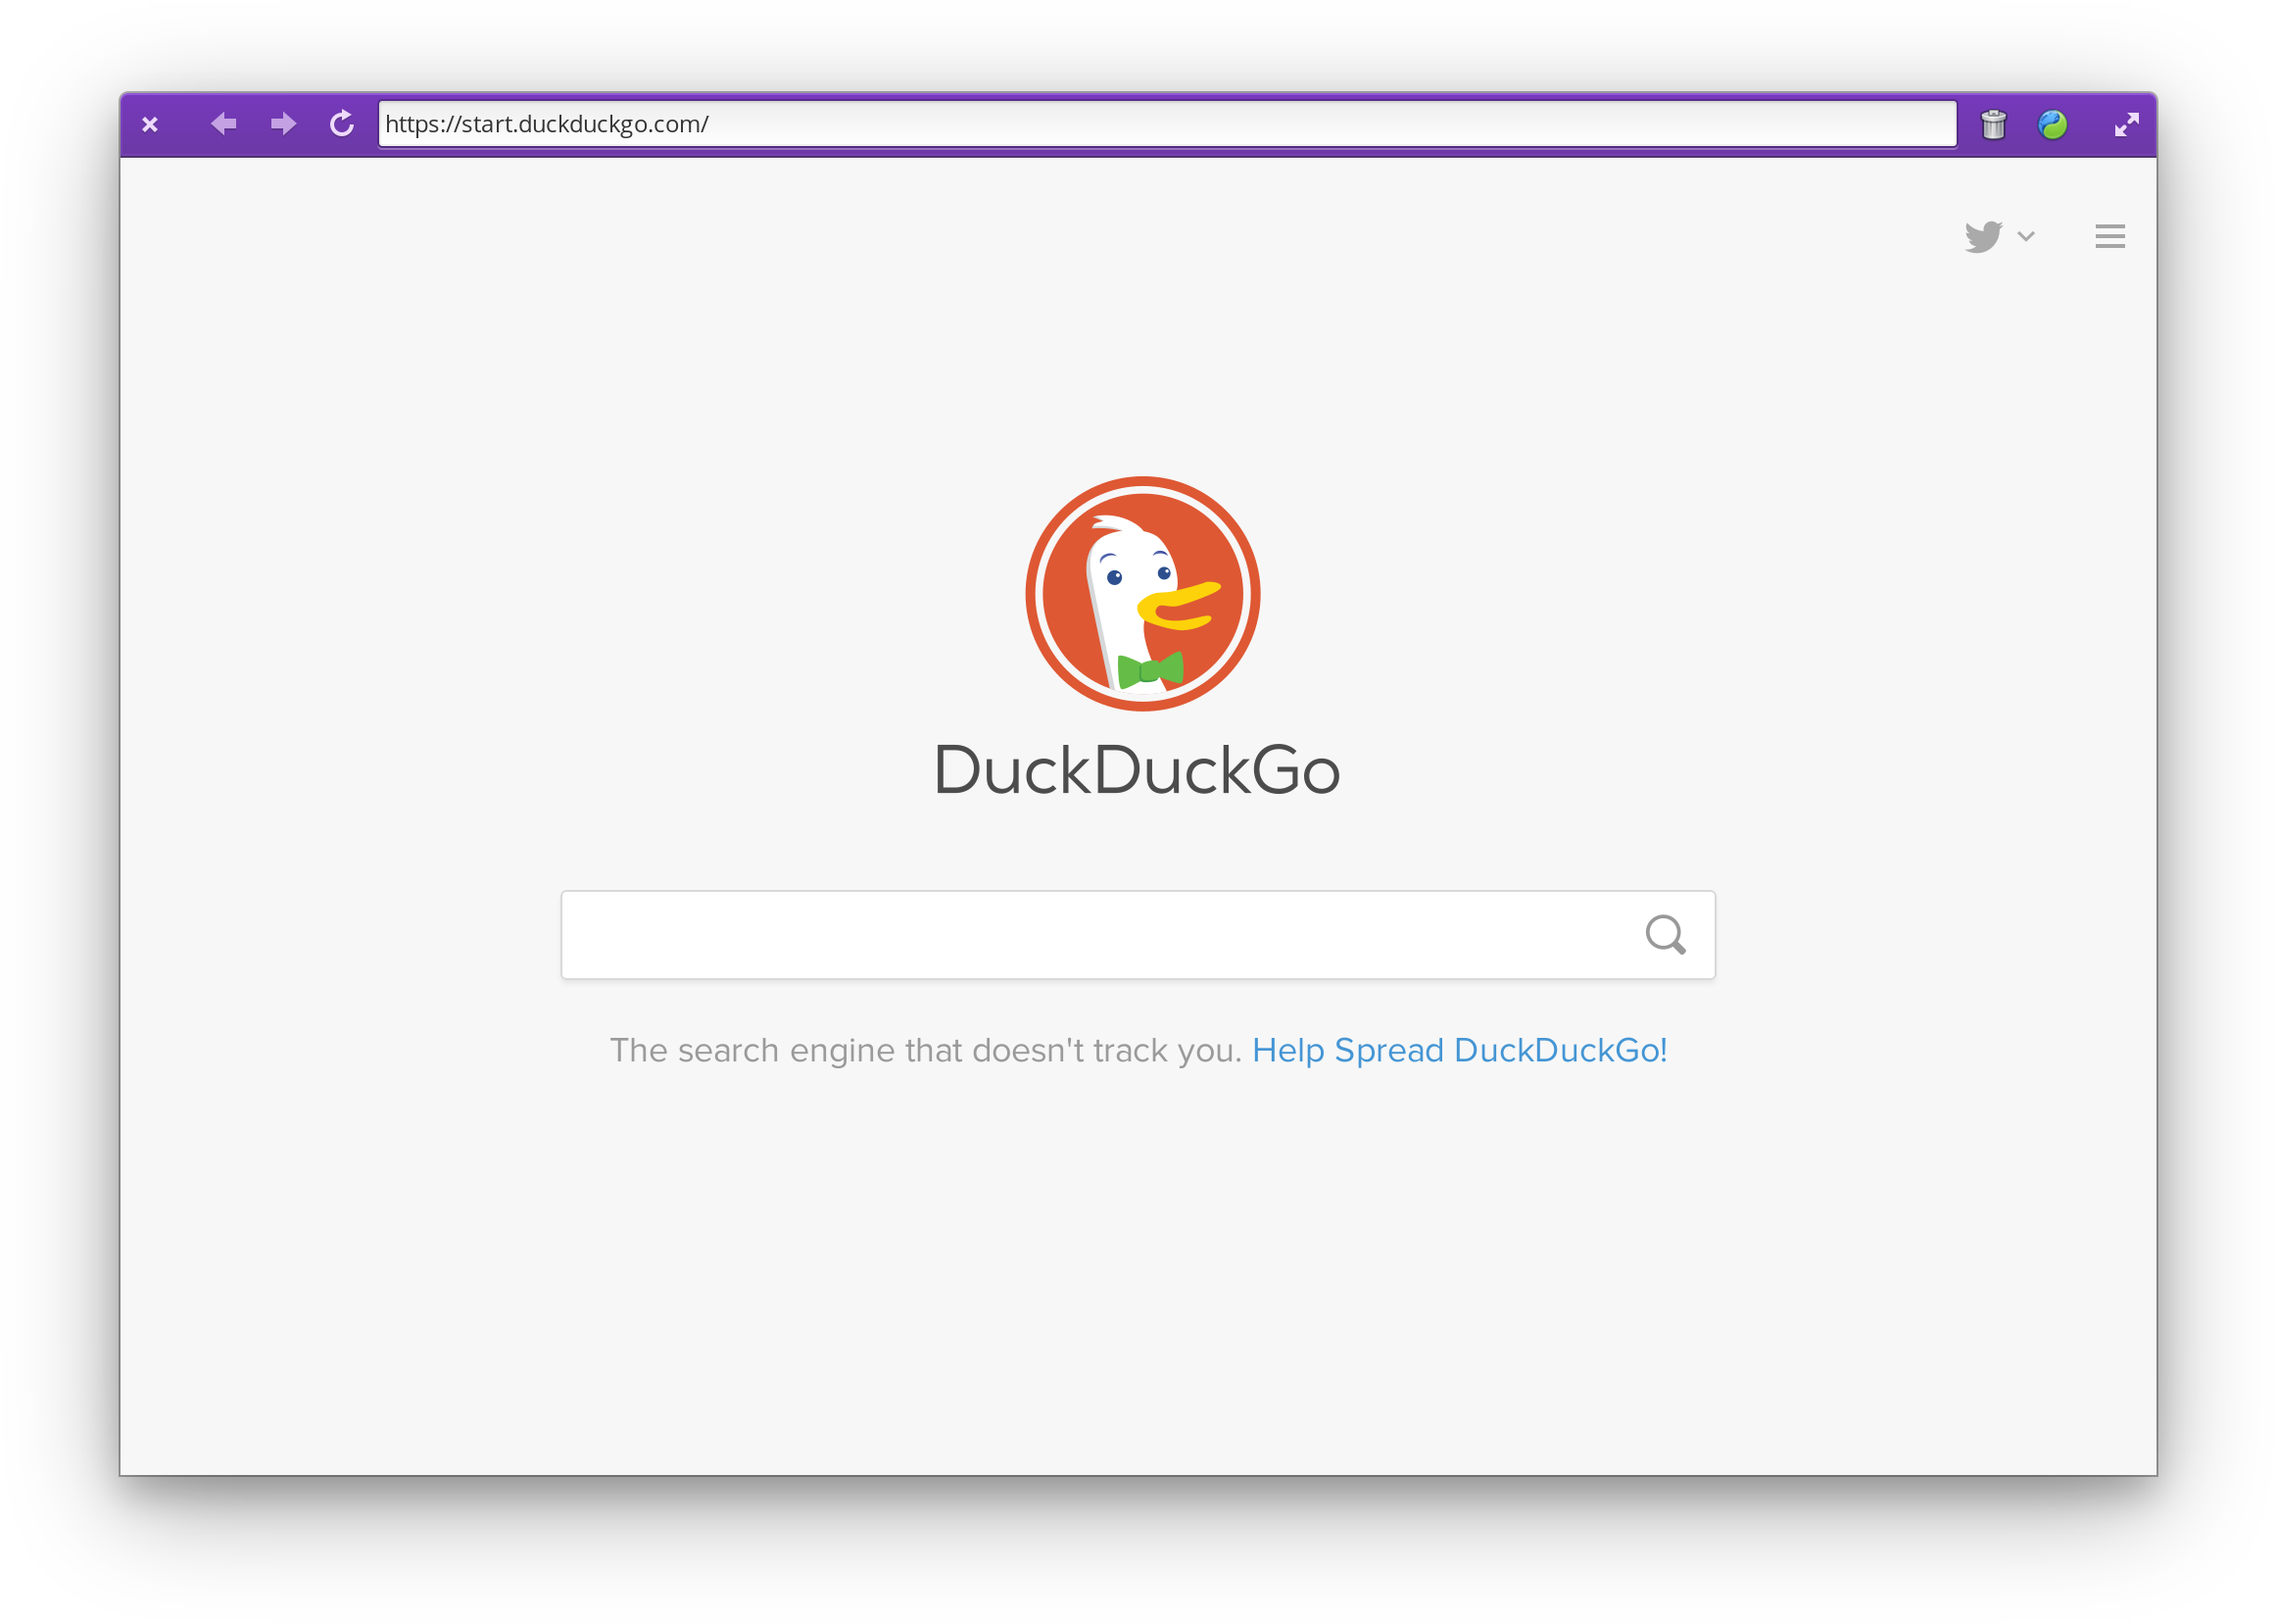
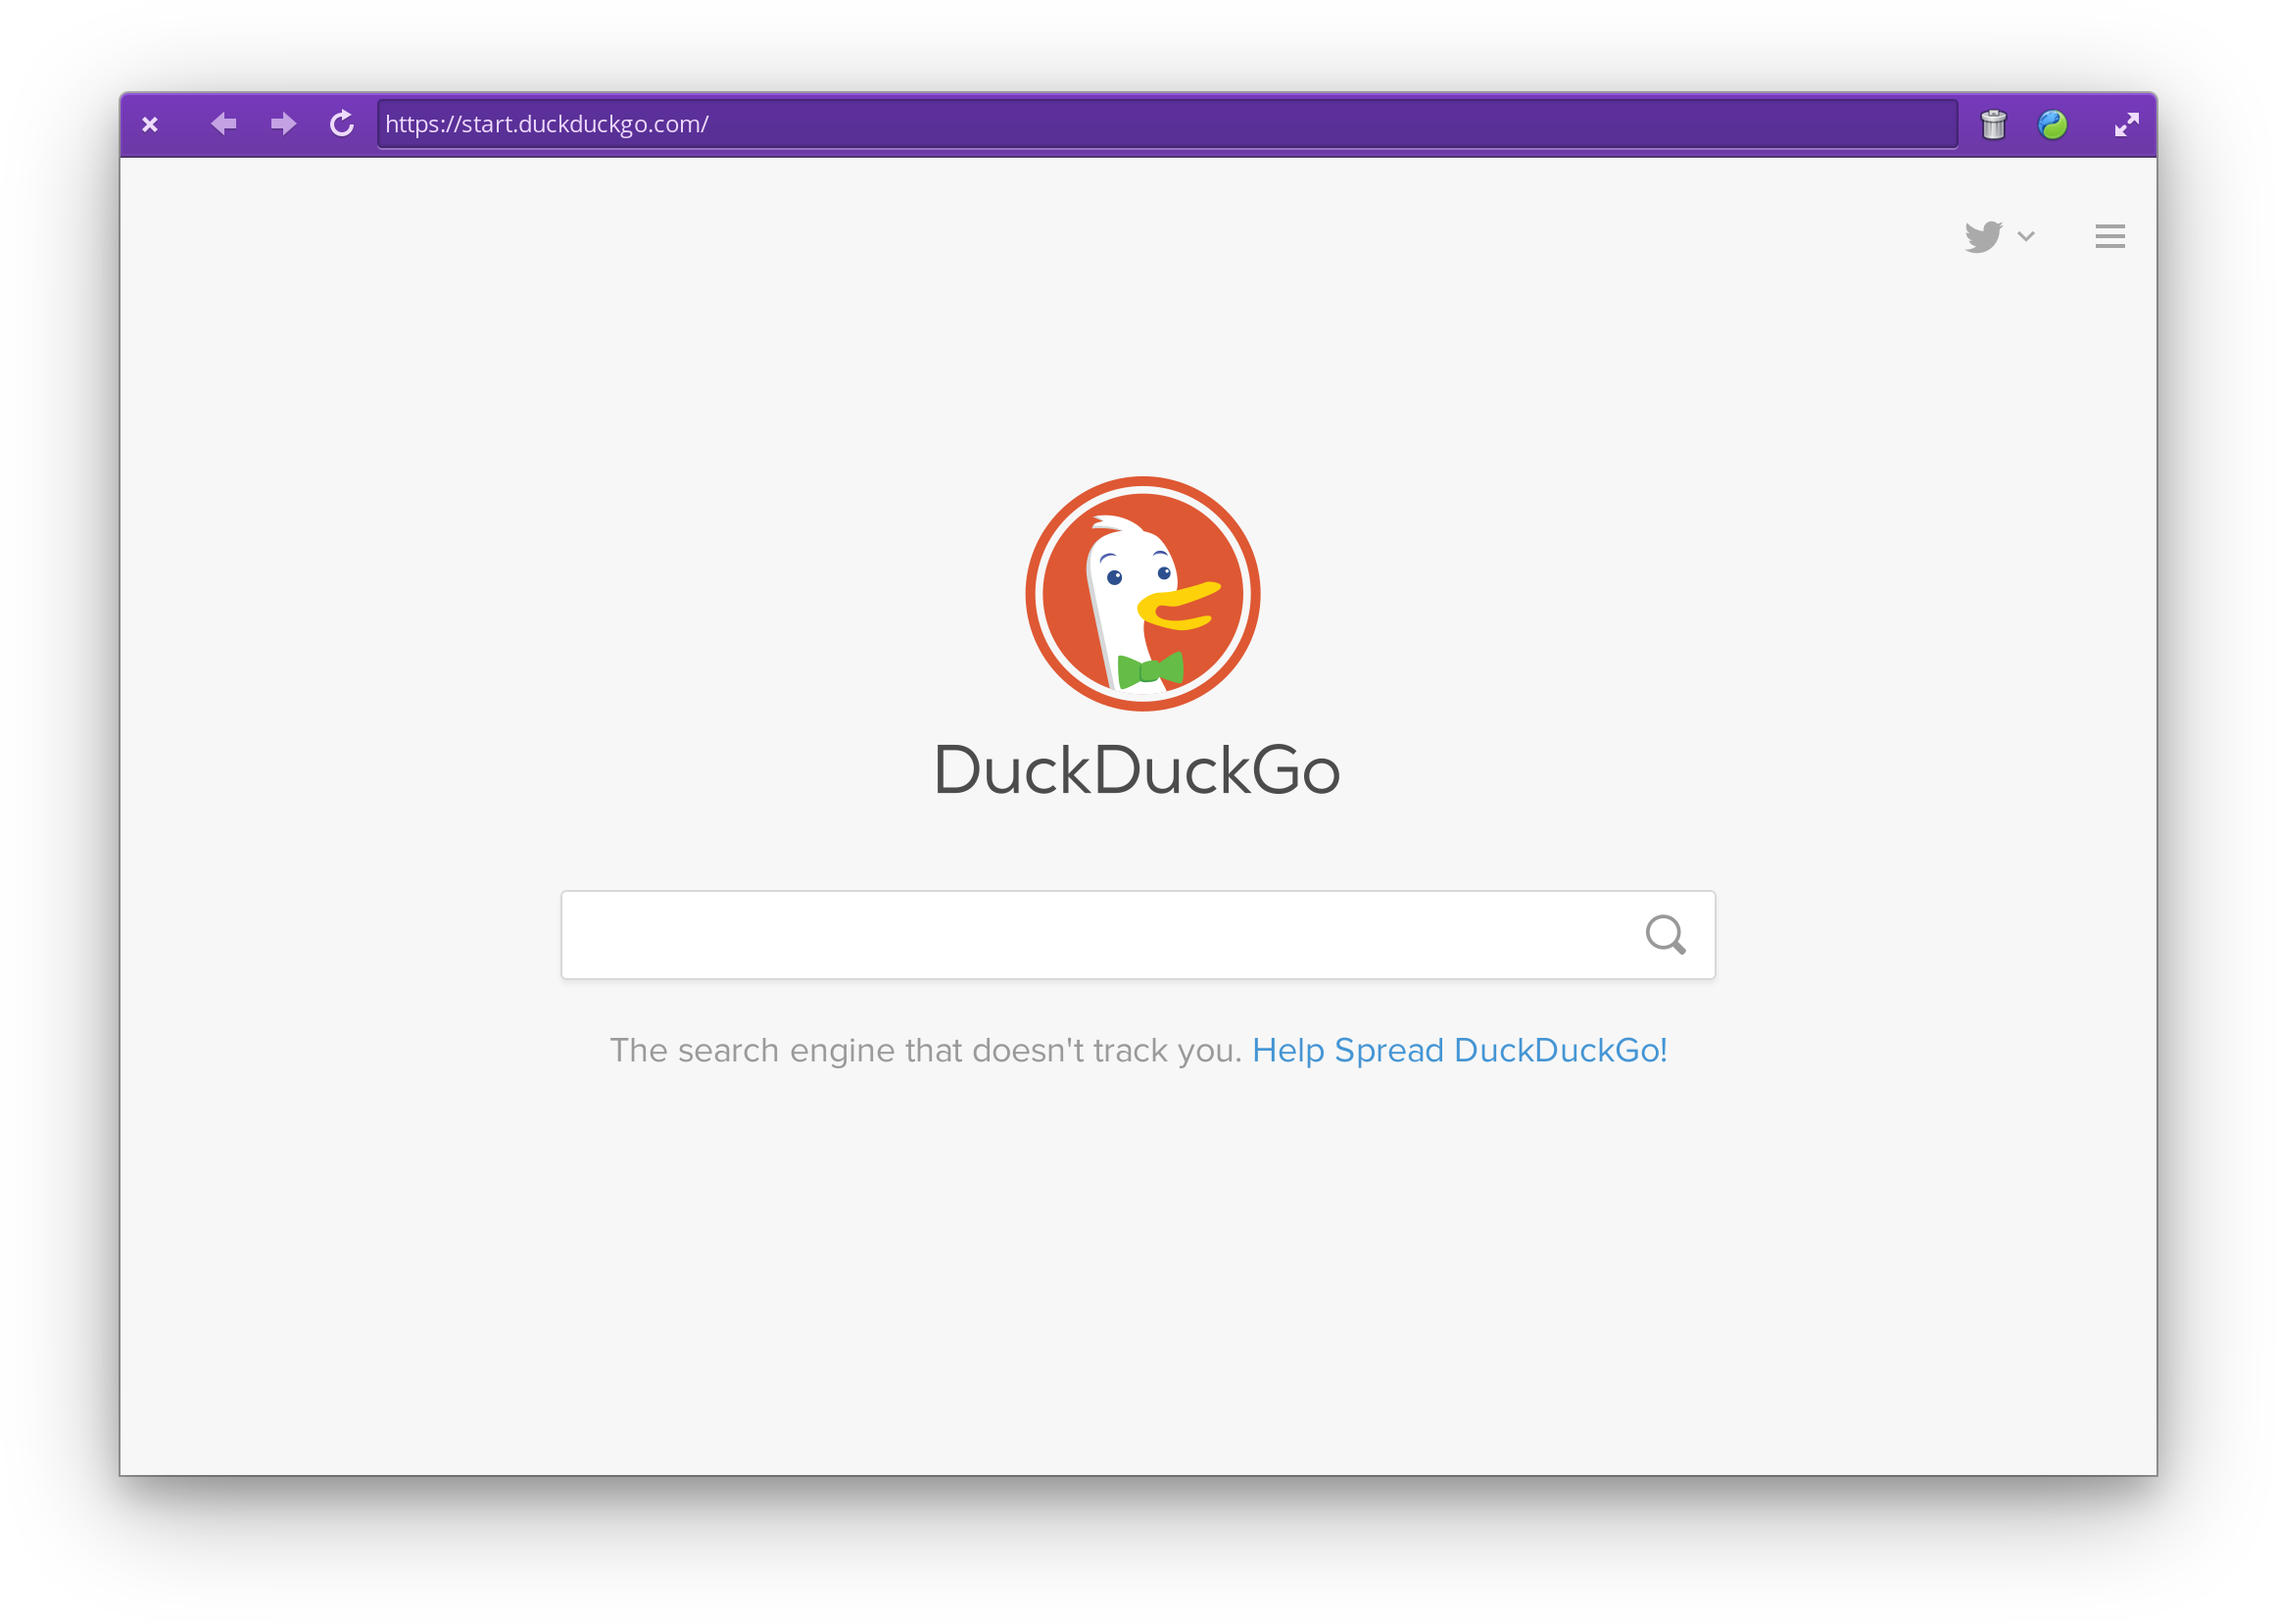
Update URL entry styling

Changed region(s): [[0.1549, 0.0616, 0.8675, 0.0924]]

diff --git a/data/Application.css b/data/Application.css
@@ -24,3 +24,9 @@
 @define-color textColorPrimary shade(@GRAPE_100, 1.05);
 @define-color textColorPrimaryShadow alpha(shade(@colorPrimary, 0.6), 0.4);
 
+.titlebar entry {
+  background: alpha(@GRAPE_900, 0.5);
+  color: @textColorPrimary;
+  text-shadow: none;
+}
+
